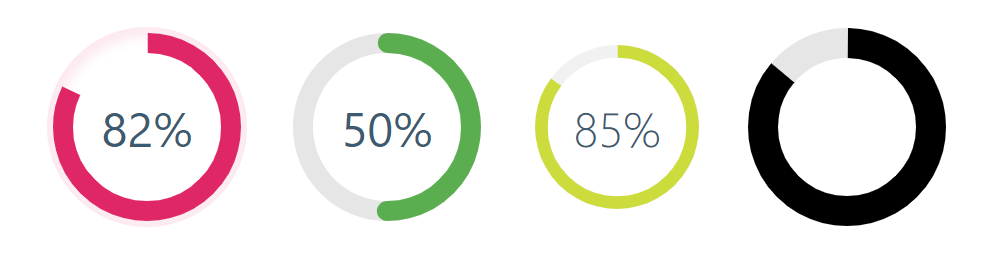
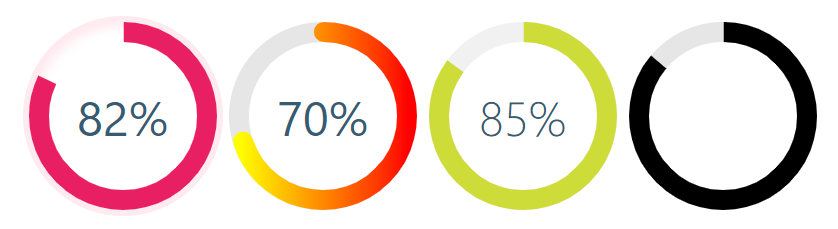
update

Changed region(s): [[0.031, 0.0917, 0.7446, 0.917], [0.7757, 0.0917, 0.9928, 0.917]]

diff --git a/sources/index.html b/sources/index.html
@@ -20,12 +20,12 @@
     </section>
     <section>
       <div class="pie"
-        data-pie='{ "percent": 85, "size": 180, "strokeWidth": 7, "colorSlice": "#CDDC39", "colorCircle": "#f1f1f1", "fontWeight": 100, "time": 50 }'>
+        data-pie='{ "percent": 85, "size": 200, "strokeWidth": 10, "colorSlice": "#CDDC39", "colorCircle": "#f1f1f1", "fontWeight": 100, "time": 50 }'>
       </div>
     </section>
     <section>
       <div class="pie"
-        data-pie='{ "percent": 86, "colorSlice": "#000", "colorCircle": "#e6e6e6", "strokeWidth": 15, "number": false }'>
+        data-pie='{ "percent": 86, "colorSlice": "#000", "colorCircle": "#e6e6e6", "strokeWidth": 10, "number": false }'>
       </div>
     </section>
   </div>
